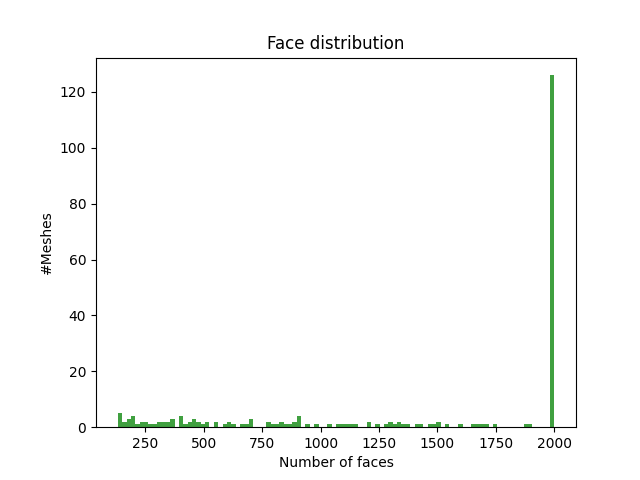
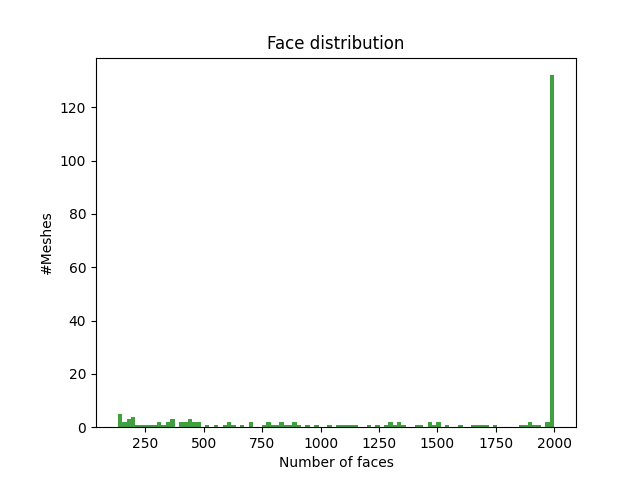
commit

diff --git a/analyze.py b/analyze.py
@@ -92,29 +92,30 @@ def filter_database(dbPath, excelPath, features=True):
           mesh_info = fill_mesh_info(mesh, classFolder, path, features)
           df = df.append(mesh_info, ignore_index=True)
   df.to_excel(excelPath)
+  df.to_pickle(utils.refinedpicklePath)
 
 def make_bins(list, lowerbound, upperbound, nrbins):
   bins = np.histogram(list, bins=nrbins, range=(lowerbound, upperbound))
   return bins[0]
 
-def A3(mesh, amount=10):
+def A3(mesh, amount=10000):
   random_vertices = mesh.vertices[np.random.randint(0, high=len(mesh.vertices), size=(amount, 3))]
   angles = [utils.angle(x[0] - x[1], x[0] - x[2]) for x in random_vertices]
   return make_bins(angles, 0, math.pi, 10)
 
-def D1(mesh, amount=10):
+def D1(mesh, amount=10000):
   #Distance barycentre to random vertice
   random_vertices = mesh.vertices[np.random.randint(0, high=len(mesh.vertices), size=(amount))]
   distance_barycentre = [ math.sqrt(sum(random_vertice**2)) for random_vertice in random_vertices ]
   return make_bins(distance_barycentre, 0, 2, 10)
 
-def D2(mesh, amount=10):
+def D2(mesh, amount=10000):
   #Distance between two random vertices
   random_vertices = mesh.vertices[np.random.randint(0, high=len(mesh.vertices), size=(amount,2))]
   distance_vertices = [math.sqrt(sum((random_vertice[0] - random_vertice[1])**2)) for random_vertice in random_vertices]
   return make_bins(distance_vertices, 0, 2, 10)
 
-def D3(mesh, amount=10):
+def D3(mesh, amount=10000):
   #Root of area of triangle given by three random vertices
   random_vertices = mesh.vertices[np.random.randint(0, high=len(mesh.vertices), size=(1, 3))]
   area_vertices =  [math.sqrt((math.sqrt(sum(np.cross(random_vertice[0] - random_vertice[2], random_vertice[1] - random_vertice[2])**2)) / 2)) for random_vertice in random_vertices]
@@ -146,7 +147,7 @@ def fill_mesh_info(mesh, classFolder, path, features=True):
                  "area": mesh.area,
                  "eccentricity": eccentricity(mesh),
                  "eigen_x_angle": preprocess.eigen_angle(mesh),
-                 "diameter": diameter(mesh),
+                 #"diameter": diameter(mesh),
                  "compactness": compactness(mesh),
                  "A3": A3(mesh),
                  "D1": D1(mesh),
@@ -273,5 +274,5 @@ def save_all_histograms(df, path, features=False):
   for info in plotInfos:
     save_histogram(df.loc[:, info['column']].values, info, path)
 
-mesh = trimesh.load('testModels/db/0/m1/m1.off', force='mesh')
-D3(mesh, amount=1000)
+# mesh = trimesh.load('testModels/refined_db/0/m0/m0.off', force='mesh')
+# D1(mesh, amount=100000)

diff --git a/main.py b/main.py
@@ -1,6 +1,7 @@
 import collections
 import logging
 import time
+import ast
 from datetime import timedelta
 
 import pyrender
@@ -66,12 +67,13 @@ def main():
   print("Analyze 1")
   #analyze.filter_database(utils.originalDB, utils.excelPath, features=False)
   print("Preprocessing")
-  preprocess.process_all()
+  # preprocess.process_all()
   print("Analyze 2")
   analyze.filter_database(utils.refinedDB, utils.refinedexcelPath)
   print("Read Excel")
   originalDF = utils.read_excel(original=True)
   refinedDF = utils.read_excel(original=False)
+  A3 = refinedDF.loc[:, 'A3'].values
   print("Save histograms")
   analyze.save_all_histograms(originalDF, utils.imagePath)
   analyze.save_all_histograms(refinedDF, utils.refinedImagePath, features=True)

diff --git a/preprocess.py b/preprocess.py
@@ -136,7 +136,7 @@ def process_all(show_subdivide=False, show_superdivide=False):
       mesh2 = subdivision.subdivide(mesh, utils.target_vertices)
       if show_subdivide:
         main.compare([mesh, mesh2])
-    if row['supersampled_outlier']:
+    elif row['supersampled_outlier']:
       mesh2 = subdivision.superdivide(mesh, utils.target_faces)
       if show_superdivide:
         main.compare([mesh, mesh2])

diff --git a/utils.py b/utils.py
@@ -5,6 +5,8 @@ import numpy as np
 
 excelPath = "features/original.xlsx"
 refinedexcelPath = "features/refined.xlsx"
+picklePath = "features/original.pkl"
+refinedpicklePath = "features/refined.pkl"
 imagePath = "graphs/original/"
 refinedImagePath = "graphs/refined/"
 originalDB = "testModels/db"
